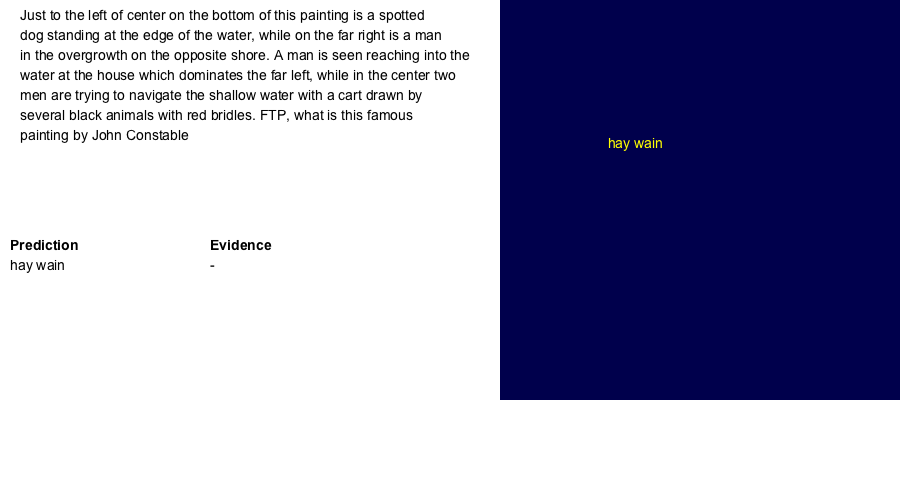
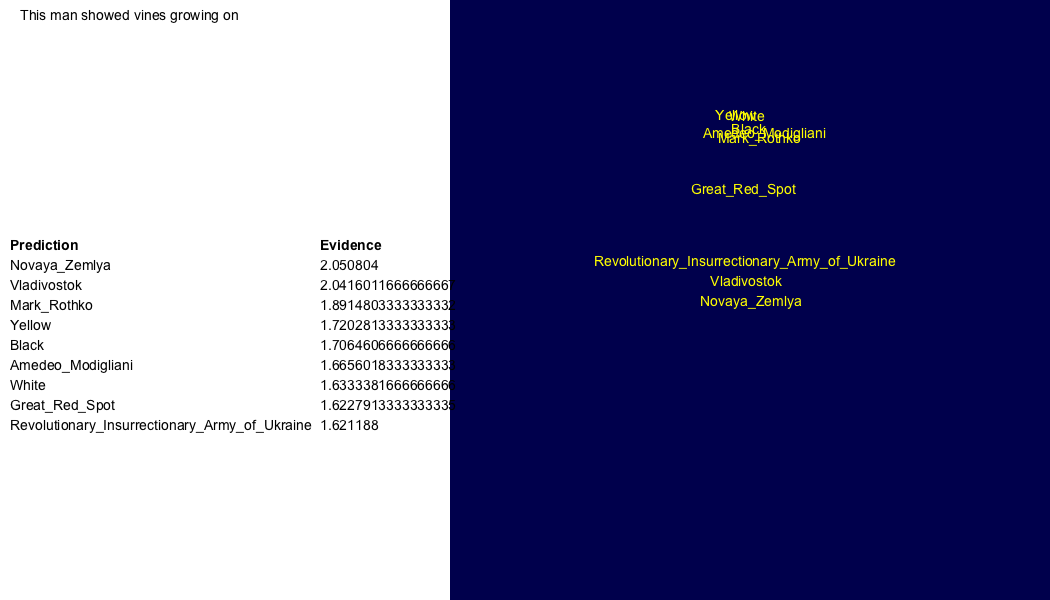
Forced mean

Changed region(s): [[0.0, 0.0, 1.0, 1.0], [0.6533, 0.18, 0.8089, 0.24], [0.6533, 0.27, 0.7778, 0.33]]

diff --git a/visualization.py b/visualization.py
@@ -13,7 +13,7 @@ import re
 
 FRAMES_PER_SECOND = 1
 WIDTH, HEIGHT = 1050, 600
-ITERATIONS = 2
+DATA_ROWS = 40
 PLOT_SIDE_LENGTH = 600
 
 # draw wrapped text
@@ -82,7 +82,7 @@ def create_table( ctx, left, top, array ):
 		ctx.select_font_face("Arial", cairo.FONT_SLANT_NORMAL, cairo.FONT_WEIGHT_NORMAL )
 
 #pycairo	
-def draw_visualization(ctx, width, height, i, frame, have_vectors_data=False ):
+def draw_visualization(ctx, width, height, frame, have_vectors_data=False ):
 	# draw a background rectangle
 	ctx.rectangle( 0, 0, width, height )
 	ctx.set_source_rgb( 1, 1, 1 )
@@ -112,7 +112,12 @@ def draw_visualization(ctx, width, height, i, frame, have_vectors_data=False ):
 # dimensions
 def reduce_to_2d(nd_array):
 	pca = PCA(n_components=2)
-	pca.fit(nd_array)
+	try:
+		pca.fit(nd_array)
+	except:
+		print( 'ERROR with pca.fit')
+		# print( nd_array )
+		return
 	return pca.transform(nd_array)
 
 # loading data
@@ -164,7 +169,9 @@ def visualize( guesses_data=None, cached_wikipedia=None, w2vmodel=None ):
 	frames = []
 	last_token = None
 	frame = None
-	for i in range (0, 30):
+
+	# save data into frames
+	for i in range (0, DATA_ROWS, 1):
 		value = values[i]
 		answer = value[1]
 		qnum = value[3]
@@ -176,10 +183,15 @@ def visualize( guesses_data=None, cached_wikipedia=None, w2vmodel=None ):
 		else:
 			frames.append( frame )
 			question_text = questions_lookup[qnum]
-			question_text_so_far = get_number_of_words( question_text[sentence], token )
+			question_text_so_far = ''
+			for m in range(0,sentence):
+				question_text_so_far += question_text[m]
+			question_text_so_far += get_number_of_words( question_text[sentence], token )
 			frame = [question_text_so_far]
 			last_token = token
 	frames.pop(0) # pop the first None frame from the list
+
+	# get word vectors for each frame
 	if ( cached_wikipedia is not None ):
 		use_wikipedia = True
 		not_in_vocab = []
@@ -187,8 +199,8 @@ def visualize( guesses_data=None, cached_wikipedia=None, w2vmodel=None ):
 
 			# find word2vectors for each guess, and fit PCA model on them
 			vectors=[]
-			for i in range(1, len(frame)):
-				answer = unnormalize_wikipedia_title(frame[i][0])
+			for j in range(1, len(frame)):
+				answer = unnormalize_wikipedia_title(frame[j][0])
 				wiki_page = cached_wikipedia[answer]
 				wikipedia_words = getWords( wiki_page.content )
 				wikipedia_word_vectors = []
@@ -200,131 +212,42 @@ def visualize( guesses_data=None, cached_wikipedia=None, w2vmodel=None ):
 					wikipedia_word_vectors.append( wikipedia_word_vector )
 				vector = numpy.array(wikipedia_word_vectors).mean(axis=0)
 				vectors.append(vector)
-			# TODO, get question average vector and origin around that
+
+			# shift vectors to center around top guess
+			top_guess = numpy.copy( vectors[0] )
+
+			# add a strut to change the mean
+			strut = numpy.subtract( numpy.multiply( top_guess, len(vectors ) ), numpy.sum( vectors[1:] ) )
+			vectors.append( strut )
+			print( vectors[0][0] )
 			vectors2d = reduce_to_2d(numpy.array(vectors))
+			vectors2d = vectors2d[:-1].copy() # remove strut
+			print( vectors2d )
+
+			top_guess = numpy.copy( vectors2d[0] )
+			# print( top_guess )
+			for k in range(0, len(vectors2d)):
+				vectors2d[k] = numpy.subtract( vectors2d[k], top_guess )
+			print( vectors2d[0] )
 
 			# add 2d vector to each guess info array
-			for i in range(0, len(vectors2d)):
-				frame[i+1].append(vectors2d[i])
+			for k in range(0, len(vectors2d)):
+				frame[k+1].append(vectors2d[k])
 		# print( 'Not in vocab: ' + str(not_in_vocab) )
 	else:
 		use_wikipedia = False
-	for i in range( 0, ITERATIONS ):
+
+	# draw each frame
+	for i in range( 0, len(frames) ):
 		surface = cairo.ImageSurface( cairo.FORMAT_ARGB32, WIDTH, HEIGHT )
 		ctx = cairo.Context(surface)
-		draw_visualization( ctx, WIDTH, HEIGHT, i, frames[i], have_vectors_data=use_wikipedia )
+		draw_visualization( ctx, WIDTH, HEIGHT, frames[i], have_vectors_data=use_wikipedia )
 		file_name = "../visualization/pictures/vis" + str(i) + ".png"
 		surface.write_to_png( file_name )
 		file_names.append( file_name )
 	create_gif( '../visualization/vis.gif', file_names )
 	print( 'Visualization complete.')
 
-# get training data
-def create_sentences(path_to_file):
-	sentences = []
-	with open( path_to_file ) as infile:
-		for line in infile.readlines():
-			line = line.strip( '\n' )
-			line = line.strip(',.!?"-')
-			words = line.split()
-			sentences.append( words )
-	return sentences
-
-
-# experiment with word2vec
-def word_vectors():
-	'''
-	computer
-	programmer
-	Shadowhunters
-	Jace Wayland
-	Clary Fray
-	nerd
-	Pho
-	Jianghu
-	'''
-
-	# sentences = [
-	# 	['computer', 'programmer'],
-	# 	['Jace','Wayland','and','Clary','Fray','are','Shadowhunters'],
-	# 	['I','am','a','nerd','and','I','like','Pho'],
-	# 	['Jianghu','is','the','wuxia','world','of','citizens','heroes','and','evildoers']
-	# ]
-	# text_file = 'City of Bones.txt'
-	# sentences = create_sentences(text_file)
-	# print('Processed text file ' + text_file + ' into sentences and words')
-	# model = models.Word2Vec( sentences, min_count=1 )
-	# disk_file_name = 'wordsbyandrea.txt'
-	# model.save(disk_file_name)
-	# model = models.Word2Vec.load(disk_file_name)
-	# print( 'Trained and loaded word2vec model into ' + disk_file_name )
-	# print( 'Start loading google model' )
-	# model = models.KeyedVectors.load_word2vec_format('../GoogleNews-vectors-negative300.bin', binary=True)  
-	# print( 'Loaded google model' )
-	words = [
-		# 'Shadowhunter',
-		# 'Shadowhunters',
-		# 'warlock',
-		# 'warlocks',
-		# 'vampire',
-		# 'vampires',
-		# 'werewolf',
-		# 'werewolves',
-		# 'faerie',
-		# 'faeries',
-		# 'Jace',
-		# 'Clary',
-		# 'Isabelle',
-		# 'Simon',
-		# 'Alec',
-		# 'Magnus',
-		# 'Valentine',
-		# 'Jocelyn',
-		# 'Luke',
-		'angel',
-		'demon',
-		'stele',
-		'rune',
-		'hair',
-		'hands'
-	]
-	# vectors = []
-	# for word in words:
-	# 	word_vector = model.wv[word]
-	# 	vectors.append( word_vector )
-	# word_vectors = numpy.array( vectors )
-	vectors_file_name = 'angle_demon_vectors.npy'
-	# print( 'saving array into file ' + vectors_file_name )
-	# save_numpy( vectors_file_name, word_vectors )
-	# print( 'saved' )
-	word_vectors = load_numpy( vectors_file_name )
-	word_2d_vectors = reduce_to_2d( word_vectors )
-
-	surface = cairo.ImageSurface( cairo.FORMAT_ARGB32, WIDTH, HEIGHT )
-	ctx = cairo.Context(surface)
-
-	# draw a background rectangle
-	ctx.rectangle( 0, 0, WIDTH, HEIGHT )
-	ctx.set_source_rgb( 1, 1, 1 )
-	ctx.fill()
-
-	# draw background rectangle for the plot
-	ctx.rectangle( 400, 0, 500, 500 )
-	ctx.set_source_rgb( 0, 0, 0.3 )
-	ctx.fill()
-
-	table = [ [ "Word", "2D Vector" ] ]
-	
-	for i in range( 0, len(words) ):
-		point = word_2d_vectors[i]
-		plot( ctx, 650, 250, 40, words[i], point[ 0 ], point [ 1 ], y_to_x_scale=1 )
-		table.append( [ words[i], str(point[0])+', '+str(point[1]) ] )
-	
-	create_table( ctx, 10, 20, table )
-
-	file_name = "word2vec.png"
-	surface.write_to_png( file_name )
-		
 # executed
 def main():
 	print(visualize())

diff --git a/word_vectors_experiment.py b/word_vectors_experiment.py
@@ -1,0 +1,107 @@
+
+# get training data
+def create_sentences(path_to_file):
+	sentences = []
+	with open( path_to_file ) as infile:
+		for line in infile.readlines():
+			line = line.strip( '\n' )
+			line = line.strip(',.!?"-')
+			words = line.split()
+			sentences.append( words )
+	return sentences
+
+
+# experiment with word2vec
+def word_vectors():
+	'''
+	computer
+	programmer
+	Shadowhunters
+	Jace Wayland
+	Clary Fray
+	nerd
+	Pho
+	Jianghu
+	'''
+
+	# sentences = [
+	# 	['computer', 'programmer'],
+	# 	['Jace','Wayland','and','Clary','Fray','are','Shadowhunters'],
+	# 	['I','am','a','nerd','and','I','like','Pho'],
+	# 	['Jianghu','is','the','wuxia','world','of','citizens','heroes','and','evildoers']
+	# ]
+	# text_file = 'City of Bones.txt'
+	# sentences = create_sentences(text_file)
+	# print('Processed text file ' + text_file + ' into sentences and words')
+	# model = models.Word2Vec( sentences, min_count=1 )
+	# disk_file_name = 'wordsbyandrea.txt'
+	# model.save(disk_file_name)
+	# model = models.Word2Vec.load(disk_file_name)
+	# print( 'Trained and loaded word2vec model into ' + disk_file_name )
+	# print( 'Start loading google model' )
+	# model = models.KeyedVectors.load_word2vec_format('../GoogleNews-vectors-negative300.bin', binary=True)  
+	# print( 'Loaded google model' )
+	words = [
+		# 'Shadowhunter',
+		# 'Shadowhunters',
+		# 'warlock',
+		# 'warlocks',
+		# 'vampire',
+		# 'vampires',
+		# 'werewolf',
+		# 'werewolves',
+		# 'faerie',
+		# 'faeries',
+		# 'Jace',
+		# 'Clary',
+		# 'Isabelle',
+		# 'Simon',
+		# 'Alec',
+		# 'Magnus',
+		# 'Valentine',
+		# 'Jocelyn',
+		# 'Luke',
+		'angel',
+		'demon',
+		'stele',
+		'rune',
+		'hair',
+		'hands'
+	]
+	# vectors = []
+	# for word in words:
+	# 	word_vector = model.wv[word]
+	# 	vectors.append( word_vector )
+	# word_vectors = numpy.array( vectors )
+	vectors_file_name = 'angle_demon_vectors.npy'
+	# print( 'saving array into file ' + vectors_file_name )
+	# save_numpy( vectors_file_name, word_vectors )
+	# print( 'saved' )
+	word_vectors = load_numpy( vectors_file_name )
+	word_2d_vectors = reduce_to_2d( word_vectors )
+
+	surface = cairo.ImageSurface( cairo.FORMAT_ARGB32, WIDTH, HEIGHT )
+	ctx = cairo.Context(surface)
+
+	# draw a background rectangle
+	ctx.rectangle( 0, 0, WIDTH, HEIGHT )
+	ctx.set_source_rgb( 1, 1, 1 )
+	ctx.fill()
+
+	# draw background rectangle for the plot
+	ctx.rectangle( 400, 0, 500, 500 )
+	ctx.set_source_rgb( 0, 0, 0.3 )
+	ctx.fill()
+
+	table = [ [ "Word", "2D Vector" ] ]
+	
+	for i in range( 0, len(words) ):
+		point = word_2d_vectors[i]
+		plot( ctx, 650, 250, 40, words[i], point[ 0 ], point [ 1 ], y_to_x_scale=1 )
+		table.append( [ words[i], str(point[0])+', '+str(point[1]) ] )
+	
+	create_table( ctx, 10, 20, table )
+
+	file_name = "word2vec.png"
+	surface.write_to_png( file_name )
+		
